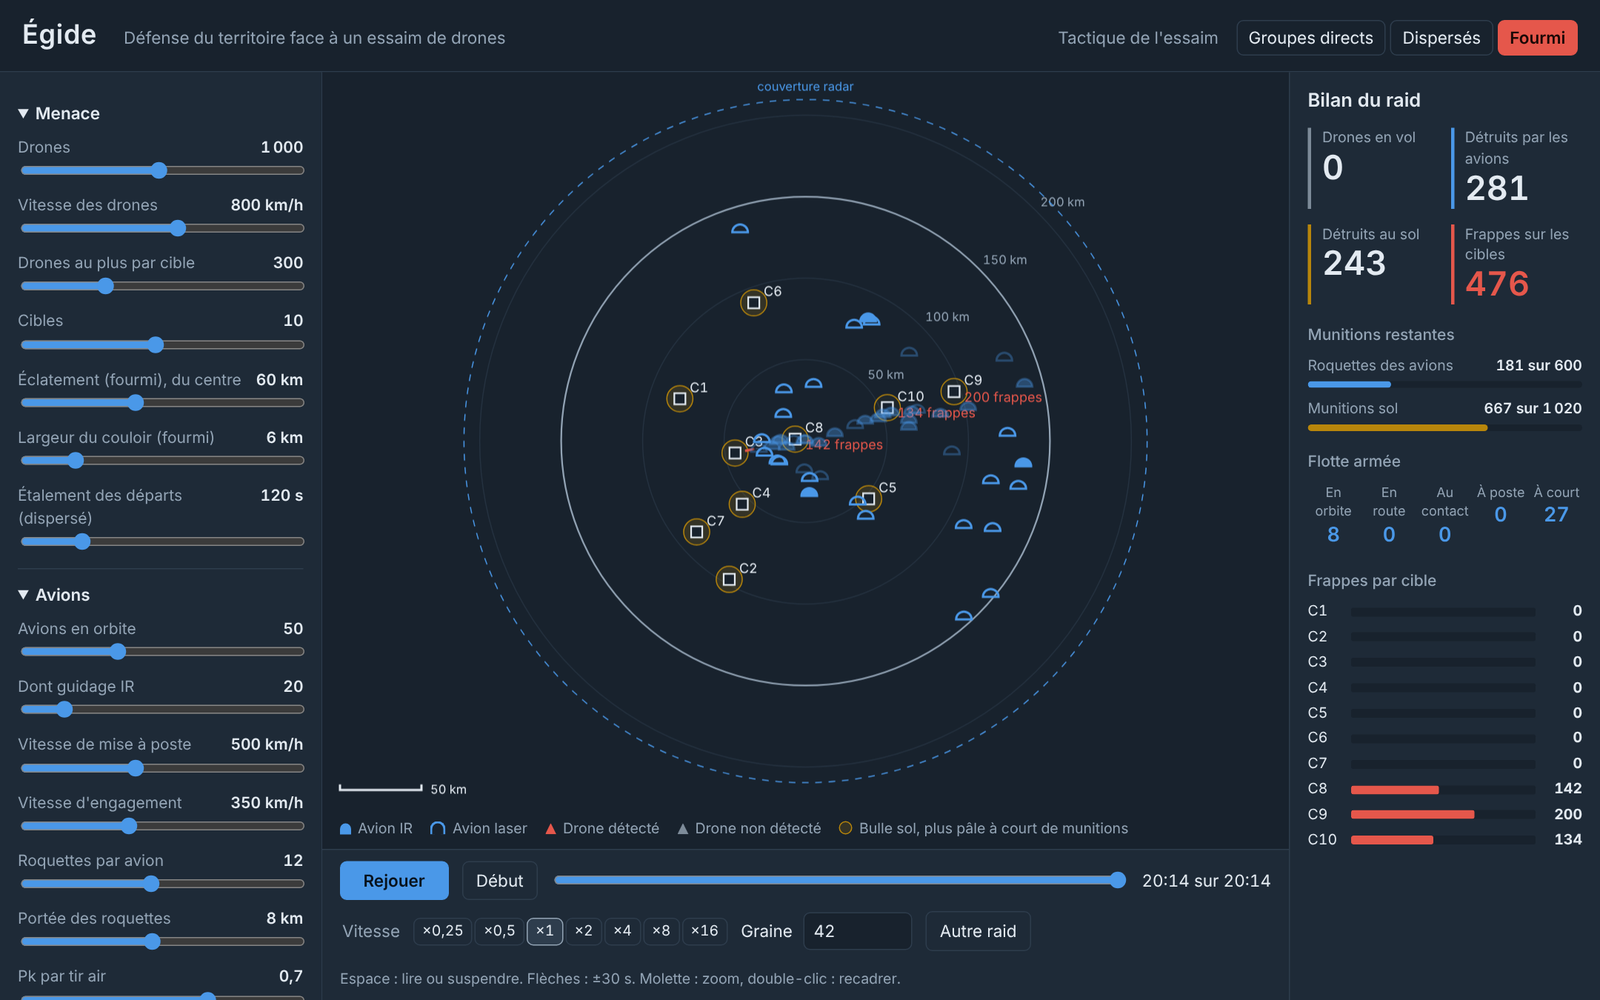
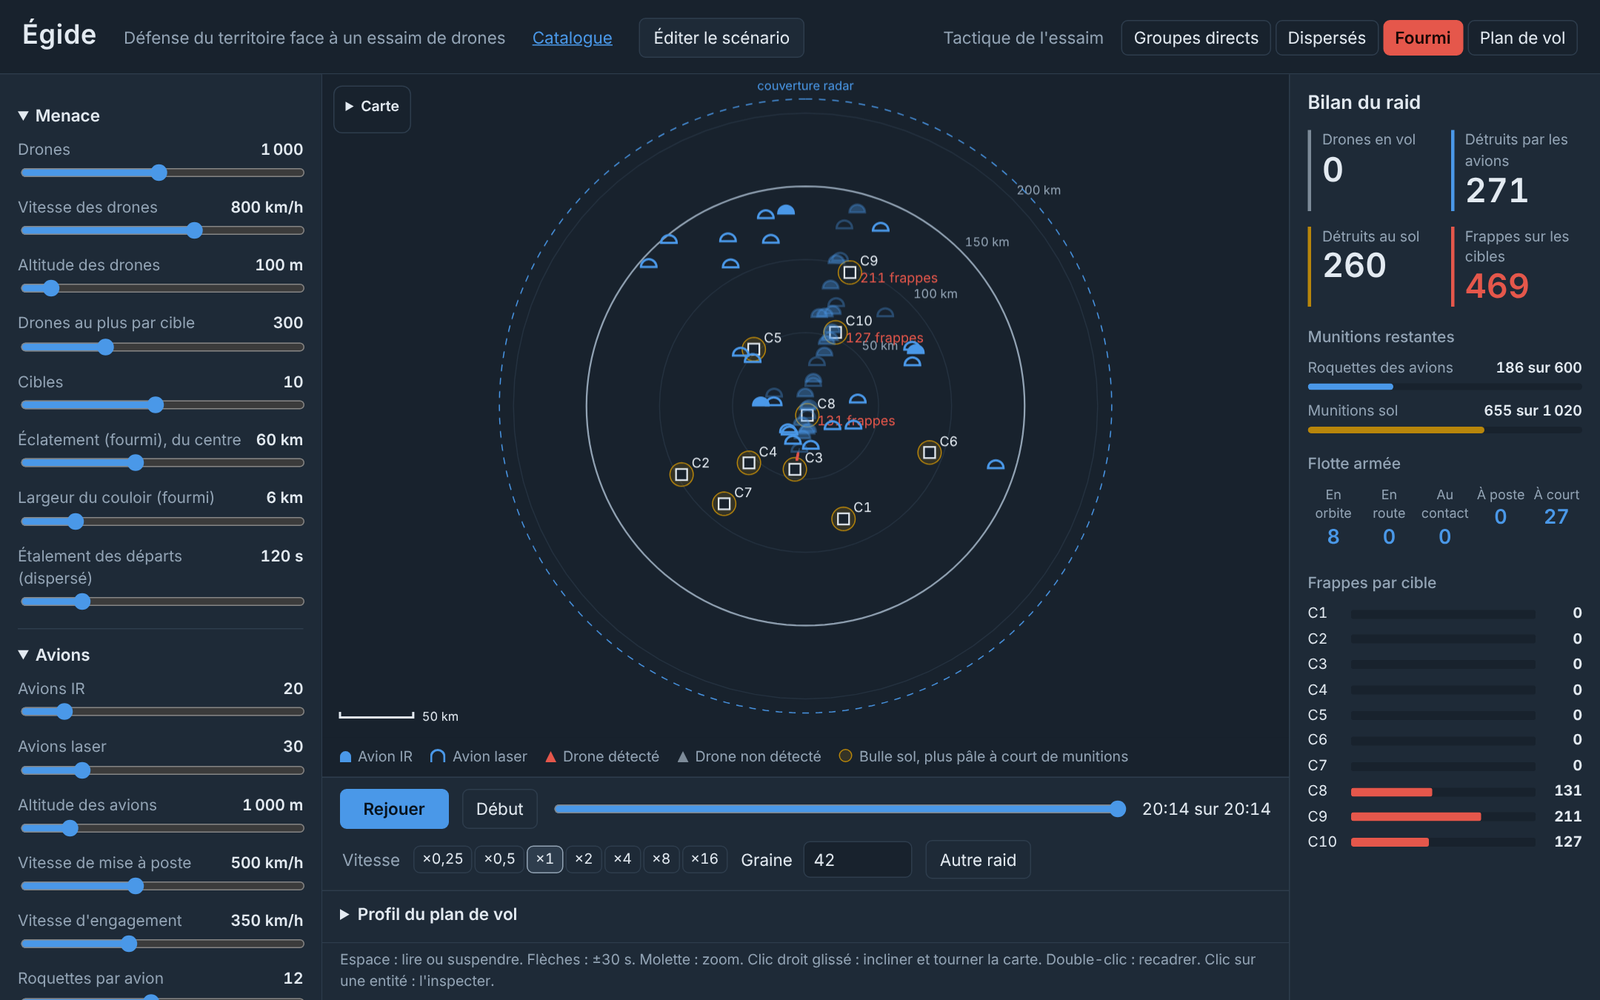
docs: README v0.2 avec nouvelles captures et GIF
Carte, éditeur, ordres, zones, inspecteur, catalogue, syntaxe par chemin en ligne de commande ; version 0.2.0.

Claude-Session: https://claude.ai/code/session_016FrRWDDbCR8M6utppfq7RR

diff --git a/README.md b/README.md
@@ -1,24 +1,37 @@
 # Égide
 
-Simulation de défense du territoire face à un essaim de drones rapides. Le défenseur dispose de trois couches :
-des radars qui couvrent le territoire, des postes sol-air sur les cibles, et des avions turbopropulseurs en
-orbite armés de roquettes guidées laser ou IR.
-
-Égide répond à deux questions, avec un fond mathématique explicite et des résultats reproductibles :
-
-- **À quelle vitesse les avions doivent-ils se mettre à poste**, selon leur nombre, pour intercepter un essaim
-  dont on ne connaît pas la route ?
-- **Combien de postes sol-air faudrait-il sans avions**, et combien la couche aérienne en épargne ?
+Simulation de défense du territoire face à un essaim de drones rapides, jouable comme un jeu de stratégie vu de
+dessus et assez rigoureuse pour en prouver les résultats. Le défenseur dispose de radars, de postes sol-air sur les
+cibles et d'avions en orbite armés de roquettes guidées ; l'attaquant choisit sa tactique, ou suit le plan de vol que
+vous dessinez.
 
 ![L'interface en lecture : attaque « fourmi », les avions convergent sur l'essaim, le bilan évolue en direct](docs/images/interface.gif)
 
-> Scénario notionnel : ordres de grandeur publics, aucune performance réelle de système identifié.
-> Chaque valeur chiffrée vient de [scenarios/reference.json](scenarios/reference.json), qui dit pour chaque clé à quoi elle sert.
+> Scénario notionnel : ordres de grandeur publics, aucune performance réelle de système identifié. Le dépôt public
+> ne contient que des modèles notionnels ; les modèles de systèmes réels se rangent dans un catalogue privé
+> (`prive/`, ignoré par git) que l'outil charge de la même façon.
+
+## Ce que fait Égide
+
+- **Répond à deux questions** : à quelle vitesse les avions doivent-ils se mettre à poste, selon leur nombre, pour
+  intercepter un essaim dont on ignore la route ? Combien de postes sol-air faudrait-il sans eux ?
+- **Simule sur la vraie Terre** : ellipsoïde WGS84, distances géodésiques, n'importe où sur le globe, sur fond de carte.
+- **Se joue à la souris** : placer les cibles et les avions, dessiner le plan de vol de l'essaim et des zones
+  protégées, donner des ordres en plein raid.
+- **S'explique** : chaque unité et chaque algorithme a sa fiche (équations, hypothèses, sources, code) ; un clic sur une
+  entité dit pourquoi elle fait ce qu'elle fait.
+- **Se prouve** : graines fixées, intervalles de confiance, résultats confrontés aux formules fermées, et plus de 150
+  tests qui s'appliquent d'eux-mêmes à tout nouveau modèle.
+
+## Lancer
+
+macOS : double-clic sur `lancer.command`. Windows : `lancer.bat`. La page s'ouvre sur http://127.0.0.1:8766.
+Rien à installer : JavaScript sans compilation, bibliothèques embarquées dans `vendor/`.
 
 ## En bref
 
-Avec le scénario de référence (1 000 drones à 800 km/h, 10 cibles, 200 postes sol, 50 avions à 500 km/h),
-moyenne sur 30 raids et intervalle de confiance à 95 % :
+Scénario de référence (1 000 drones à 800 km/h, 10 cibles, 200 postes sol, 50 avions à 500 km/h), 30 raids par
+tactique, moyenne et intervalle de confiance à 95 % :
 
 | Tactique de l'essaim | Frappes sans avions | Frappes avec 50 avions | Détruits par les avions |
 |---|---|---|---|
@@ -26,56 +39,41 @@ moyenne sur 30 raids et intervalle de confiance à 95 % :
 | Dispersés | 524 ± 8 | **187 ± 11** | 407 |
 | Fourmi (couloir compact puis éclatement) | 668 ± 19 | 401 ± 25 | 272 |
 
-- Les avions divisent les frappes par 1,6 à 2,8. La tactique fourmi est la plus efficace pour l'attaquant :
-  le couloir compact sature chaque avion sur un passage, et l'éclatement tardif oblige la flotte à se partager.
-- Face aux groupes compacts, les avions ne tirent que 60 % de leurs roquettes : la limite est la cadence par
-  passage, pas le stock. Au sol de même, environ la moitié des munitions reste inutilisée.
-- Avec 50 avions, garantir 5 avions sur une route quelconque demande ~350 km/h ; 8 avions, ~465 km/h ;
-  10 avions, ~525 km/h. Avec 20 avions, 5 garantis demandent déjà ~600 km/h.
+- Les avions divisent les frappes par 1,6 à 2,8. La tactique fourmi est la plus efficace pour l'attaquant : le couloir
+  compact sature chaque avion sur un passage, et l'éclatement tardif oblige la flotte à se partager.
+- Face aux groupes compacts, la limite est la cadence de tir par passage, pas le stock de munitions.
+- Avec 50 avions, garantir 5 avions sur une route quelconque demande ~350 km/h ; 8 avions, ~465 km/h ; 10, ~525 km/h.
 
-## Lancer
+Ces chiffres viennent du moteur plan de la v0.1 ; le moteur géodésique de la v0.2 les retrouve à moins de 0,5 σ
+(`tests/equivalence_v01.test.js`).
 
-macOS : double-clic sur `lancer.command`. Windows : `lancer.bat`. La page s'ouvre sur http://127.0.0.1:8766.
+## La situation
 
-Rien à installer pour l'interface : JavaScript sans compilation, servi par le serveur HTTP de Python.
+L'écran reprend les codes d'une situation aérienne : anneaux de distance, couverture radar, balayage du faisceau,
+plots radar avec leur historique. Symbologie inspirée d'APP-6 : dôme bleu plein pour un avion IR, creux pour un avion
+laser, demi-losange rouge pour un drone détecté (gris s'il ne l'est pas), carré pour une cible, cercle ocre pour une
+bulle sol qui pâlit à mesure qu'elle s'épuise.
 
-## L'interface
-
-### Le scope
-
-L'écran reprend les codes d'une situation aérienne : anneaux de distance tous les 50 km, limite de la zone,
-couverture radar basse altitude en pointillés, balayage du faisceau. Les drones apparaissent en plots
-rafraîchis toutes les 4 s, avec leur historique. La symbologie s'inspire d'APP-6 :
-
-| Symbole | Signification |
-|---|---|
-| Dôme bleu plein | Avion armé de roquettes IR |
-| Dôme bleu creux | Avion armé de roquettes laser |
-| Demi-losange rouge | Drone détecté (gris tant qu'il ne l'est pas) |
-| Carré blanc | Cible ; rouge au moment d'une frappe |
-| Cercle ocre | Bulle d'un groupe de postes sol, plus pâle à mesure qu'il épuise ses munitions |
-| Pointillés bleus | Route d'un avion vers son point de mise à poste |
-
-La molette zoome, le glisser déplace la vue, le double-clic recadre. Le survol décrit chaque entité :
-
-![Zoom sur l'essaim au contact de la défense, infobulle d'un avion en route vers son point de mise à poste](docs/images/zoom_engagement.png)
+Le panneau **Carte** pose la situation sur un fond réel : sombre, OpenStreetMap, plan ou photographies IGN, relief
+ombré ou en 3D, bâtiments 3D, vue à plat ou sur le globe ; clic droit glissé pour incliner et tourner. Chaque source
+est un fichier de `cartes/`, avec son attribution et ses conditions d'usage. « Scope seul » retire la carte.
 
 ### Trois tactiques adverses
 
 <table>
 <tr>
-<td width="50%"><img src="docs/images/eclatement.gif" alt="Tactique fourmi, vue zoomée : le couloir éclate près de C10 et les avions convergent"></td>
+<td width="50%"><img src="docs/images/eclatement.gif" alt="Tactique fourmi, vue zoomée : le couloir éclate et les avions convergent"></td>
 <td width="50%"><img src="docs/images/direct.gif" alt="Groupes directs : chaque groupe arrive d'un cap différent sur sa cible"></td>
 </tr>
 <tr>
-<td><b>Fourmi</b>, vue zoomée : tout l'essaim entre par un même couloir, éclate près de C10, puis se répartit sur ses cibles pendant que les avions convergent.</td>
+<td><b>Fourmi</b>, vue zoomée : tout l'essaim entre par un même couloir, éclate, puis se répartit sur ses cibles pendant que les avions convergent.</td>
 <td><b>Groupes directs</b> : chaque groupe arrive d'un cap tiré au hasard, en vague serrée, droit sur sa cible.</td>
 </tr>
 <tr>
 <td colspan="2" align="center"><img src="docs/images/disperse.gif" alt="Dispersés : un anneau de drones isolés converge sur toute la zone" width="60%"></td>
 </tr>
 <tr>
-<td colspan="2"><b>Dispersés</b> : chaque drone vient seul, de n'importe quel cap, avec des départs étalés. C'est la tactique la plus facile à défendre : les avions trouvent des cibles partout et vident presque tout leur emport.</td>
+<td colspan="2"><b>Dispersés</b> : chaque drone vient seul, de n'importe quel cap, départs étalés. La plus facile à défendre : les avions trouvent des cibles partout. La quatrième tactique, <b>plan de vol</b>, suit l'itinéraire que vous dessinez.</td>
 </tr>
 </table>
 
@@ -85,48 +83,88 @@ Même raid fourmi, même graine, en fin de raid :
 
 <table>
 <tr>
-<td width="50%"><img src="docs/images/fin_de_raid.png" alt="Fin de raid avec 50 avions : 476 frappes"></td>
+<td width="50%"><img src="docs/images/fin_de_raid.png" alt="Fin de raid avec 50 avions : 469 frappes"></td>
 <td width="50%"><img src="docs/images/sans_avions.png" alt="Fin de raid sans avions : 713 frappes"></td>
 </tr>
+<tr><td>Avec 50 avions : <b>469 frappes</b>.</td><td>Sans avions : <b>713 frappes</b>.</td></tr>
+</table>
+
+## Éditer à la souris
+
+« Éditer le scénario » met le raid en pause au début et ouvre la barre d'outils :
+
+- **Sélection** (S) : glisser pour déplacer cibles, avions, points de passage ou zones ; rectangle ou Maj+clic pour
+  sélectionner ; clic droit pour envoyer la sélection en gardant sa formation ; Ctrl+1 à 9 forme un groupe, 1 à 9 le
+  rappelle ; Suppr efface ; Ctrl+Z annule.
+- **Cible** (C) : un clic, une cible.
+- **Plan de vol** (P) : chaque clic ajoute un point de passage ; l'essaim suit le tracé en colonne, puis chaque drone
+  rejoint sa cible. Le panneau « Profil du plan de vol » trace son altitude au-dessus du relief réel.
+- **Zone** (Z) : un clic par sommet, double-clic ou Entrée pour fermer ; une zone protégée compte les incursions.
+
+![Éditeur : plan de vol en trois points sélectionnés, zone protégée, barre d'outils](docs/images/editeur.png)
+
+**Ordres en plein raid** : en pause à n'importe quel instant, « Éditer le scénario » passe en mode ordres ;
+sélectionnez des avions, clic droit pour les envoyer. L'ordre est enregistré avec son instant dans le scénario, et le
+raid se rejoue à l'identique.
+
+![Ordre donné à 5:30 : les avions sélectionnés rallient le point, la zone protégée compte ses incursions](docs/images/ordres.png)
+
+Chaque geste devient une modification du scénario, comme un curseur : l'annulation, l'export JSON, les réglages
+enregistrés et la reproductibilité par la graine valent pour tout ce que vous placez à la main.
+
+## Comprendre : fiches et inspecteur
+
+Un clic sur une entité ouvre l'**inspecteur**, mis à jour en direct : pour un avion, pourquoi la conduite l'a envoyé
+là (piste retenue, score, délai, alternatives écartées) ; pour un drone, chaque tir subi, sa probabilité de survie
+Π(1 − Pk) et la cause de sa perte ; pour une cible, sa défense et sa cadence de tir.
+
+![Inspecteur : l'avion 18 a été envoyé sur une piste de 372 drones, au score 372, contre 134 et 117 pour les alternatives](docs/images/inspecteur.png)
+
+Le lien **Catalogue** ouvre l'explorateur : une fiche par unité (fidélité, lignée, sources, paramètres avec l'ancêtre
+qui les fixe, algorithmes) et par algorithme (équations, hypothèses, domaine de validité, références, code, utilisateurs).
+
+<table>
 <tr>
-<td>Avec 50 avions : <b>476 frappes</b>.</td>
-<td>Sans avions : <b>713 frappes</b>.</td>
+<td width="50%"><img src="docs/images/catalogue_unite.png" alt="Fiche d'unité : turbopropulseur IR, lignée et paramètres hérités"></td>
+<td width="50%"><img src="docs/images/catalogue_algo.png" alt="Fiche d'algorithme : essaim fourmi, équations et hypothèses"></td>
 </tr>
 </table>
 
-### Réglages, lecture et rejeu
+## Réglages, lecture, balayage
 
-- Un curseur par clé du scénario, groupés par couche (menace, avions, sol, détection et conduite). L'info-survol
-  de chaque curseur reprend la phrase d'aide du fichier de scénario. Chaque geste relance le raid.
-- Lecture de ×0,25 à ×16 (×1 = 20 s simulées par seconde). Espace pour lire ou suspendre, flèches pour ±30 s.
-- La frise permet d'aller à n'importe quel instant, en avant comme en arrière : le raid est rejoué depuis la
-  graine, donc à l'identique. « Autre raid » change la graine.
-- Les réglages s'enregistrent dans le navigateur ; « Exporter le scénario » télécharge le JSON complet,
-  réutilisable par les campagnes en ligne de commande.
+- Un curseur par réglage, groupés par couche ; l'info-survol reprend la phrase d'aide du scénario ou de l'unité.
+- Lecture de ×0,25 à ×16, frise pour aller à n'importe quel instant (le raid est rejoué depuis la graine), « Autre raid »
+  pour changer de graine. Espace : lire ou suspendre ; flèches : ±30 s.
+- Réglages enregistrés dans le navigateur ; « Exporter le scénario » télécharge le JSON complet.
+- **Balayage** : faire varier un réglage, rejouer le raid sur plusieurs graines par valeur, lire chaque grandeur avec
+  son intervalle de confiance — calculé en arrière-plan.
 
-### Balayage
+![Balayage du nombre d'avions, avec intervalles de confiance](docs/images/balayage.png)
 
-Le panneau de balayage fait varier un réglage, rejoue le raid sur plusieurs graines pour chaque valeur, et
-trace chaque grandeur avec son intervalle de confiance. Le calcul tourne en arrière-plan : l'animation reste fluide.
+<img src="docs/images/mobile.png" alt="L'interface sur un écran de téléphone" width="280">
 
-![Balayage du nombre d'avions : frappes, destructions par les avions et au sol, avec intervalles de confiance](docs/images/balayage.png)
+## Étendre : unités, algorithmes, cartes
 
-![Les mêmes résultats en tableau](docs/images/balayage_tableau.png)
+```
+unites/<famille>/<classe>/<unite>.json    une unité par fichier, héritage par herite_de, chaque clé documentée
+algos/global/<rôle>/<algo>.js             un algorithme par module : fiche « meta » + fonctions du rôle, sans import
+cartes/fonds|relief|batiments/<source>.json   une source de carte par fichier, attribution obligatoire
+prive/unites/…  prive/algos/…             votre catalogue privé (ignoré par git), identifiants préfixés « prive/ »
+scenarios/                                scénarios JSON, chaque clé documentée
+```
 
-### Sur téléphone
+Après tout ajout : `node outils/indexer.js`. La suite de conformité vérifie d'elle-même tout fichier déposé, public ou
+privé : fiche complète, rôle tenu, aucune dépendance cachée, paramètres présents, invariants du rôle. Les rôles et
+leurs fonctions sont décrits dans [docs/MODELE.md § 10](docs/MODELE.md).
 
-<img src="docs/images/mobile.png" alt="L'interface sur un écran de téléphone" width="300">
-
-## Les trois étapes
-
-### 1. Abaques analytiques (`analyse/`, Python)
-
-Les formules fermées de [docs/MODELE.md](docs/MODELE.md) : horizon radar, délai de mise à poste, nombre
-d'avions concentrables, vitesse minimale, postes sol nécessaires, pré-attrition par la couche aérienne.
+## En ligne de commande
 
 ```sh
-uv run --with matplotlib python -m analyse.abaques                 # figures et recapitulatif.md dans resultats/abaques/
-uv run --with matplotlib python -m analyse.abaques --concentration 400
+node src/campagne.js                                            # scénario de référence, 50 raids
+node src/campagne.js --tirages 200 --rouge.tactique direct      # toute valeur se règle par son chemin
+node src/campagne.js --rouge.surcharges.vitesse_kmh 600         # y compris une valeur d'unité
+node src/campagne.js --balayer bleu.avions.1.nombre=0,10,30,60  # une campagne par valeur
+uv run --with matplotlib python -m analyse.abaques              # abaques analytiques et récapitulatif
 ```
 
 <table>
@@ -135,61 +173,32 @@ uv run --with matplotlib python -m analyse.abaques --concentration 400
 <td width="50%"><img src="docs/images/postes_sol.png" alt="Postes sol nécessaires selon la concentration adverse"></td>
 </tr>
 <tr>
-<td>Vitesse minimale de mise à poste pour garantir k avions sur une route quelconque. La bande grise est la plage des turbopropulseurs.</td>
-<td>Postes sol nécessaires selon la concentration adverse par cible, sans avions puis avec 20, 50 et 100 avions.</td>
+<td>Vitesse minimale de mise à poste pour garantir k avions sur une route quelconque.</td>
+<td>Postes sol nécessaires selon la concentration adverse, sans avions puis avec 20, 50 et 100 avions.</td>
 </tr>
 </table>
 
-![Postes sol nécessaires face à 300 drones par cible, selon le nombre et la vitesse des avions](docs/images/carte_postes_sol.png)
-
-### 2. Simulation multi-agents (`src/moteur/`, JavaScript pur)
-
-Le moteur ne touche ni au DOM ni au réseau : il tourne dans le navigateur comme sous Node. Toute la simulation
-tire son hasard d'un générateur à graine ; un raid de 1 000 drones se calcule en moins d'une seconde.
-
-```sh
-node src/campagne.js                                          # scénario de référence, 50 raids
-node src/campagne.js --tirages 200 --drones_tactique direct   # toute clé du scénario se règle ainsi
-node src/campagne.js --balayer avions_nombre=0,20,50,100      # une campagne par valeur
-```
-
-Chaque grandeur est rendue en moyenne ± intervalle de confiance à 95 %, et enregistrée en JSON dans
-`resultats/campagnes/`. Les hypothèses de la simulation (détection, extrapolation des pistes, planification,
-tirs) sont au § 8 du modèle.
-
-### 3. Interface graphique (`index.html`, `src/vue/`)
-
-Décrite plus haut. La vue ne contient aucun calcul de défense : elle anime le moteur et lit son journal
-d'évènements.
-
 ## Rigueur
 
-- Unités SI dans tout le calcul ; conversions seulement à la lecture du scénario et à l'affichage.
-- Chaque formule codée cite son paragraphe de [docs/MODELE.md](docs/MODELE.md).
-- Les formules fermées existent en Python et en JavaScript ; [tests/references.json](tests/references.json)
-  vérifie que les deux rendent les mêmes valeurs.
-- La simulation est confrontée aux formules : la défense sol seule retrouve le § 5 du modèle (tirs par poste,
-  destructions = tirs × Pk à l'intervalle de confiance près).
-- Limites connues : drones sans contre-mesures ni évitement, radar parfait dans sa couverture, pas de
-  rechargement des avions pendant le raid (MODELE § 7).
+- Unités SI et géodésie WGS84 dans tout le calcul ; Vincenty vérifié sur les exemples de GeographicLib au millimètre.
+- Hasard à graine : une graine rejoue un raid à l'identique, ordres compris.
+- Chaque formule codée cite son paragraphe de [docs/MODELE.md](docs/MODELE.md), et un test vérifie que chaque renvoi existe.
+- Formules fermées en Python et en JavaScript, vérifiées l'une contre l'autre ; simulation confrontée aux formules.
+- Chaque refonte prouvée : le moteur géodésique retrouve les statistiques de la v0.1, le passage aux algorithmes en
+  fichiers redonne les bilans exacts.
+- Limites connues : drones sans contre-mesures ni évitement, radar parfait dans sa couverture, relief affiché mais pas
+  encore pris en compte par le moteur (MODELE § 7).
 
-## Organisation du dépôt
+## Documentation
 
-```
-analyse/            étape 1 : formules fermées, dimensionnement, abaques (Python)
-src/moteur/         étape 2 : simulation pure (JS) — hasard, scénario, menace, défense air et sol, monde
-src/vue/            étape 3 : scope, réglages, lecture, tableau de bord, balayage
-src/campagne.js     campagnes Monte-Carlo en ligne de commande
-scenarios/          scénarios JSON, chaque clé documentée dans son bloc _aide
-docs/MODELE.md      toutes les équations et hypothèses
-docs/PLAN.md        plan des trois étapes
-tests/              tests JS (node --test) et Python (pytest)
-```
+- [docs/MODELE.md](docs/MODELE.md) : toutes les équations et hypothèses.
+- [docs/PLAN_V2.md](docs/PLAN_V2.md) : feuille de route, jalons, idées et suggestions.
 
 ## Tests
 
 ```sh
-npm test                    # moteur, vue, références croisées
-pytest -q tests             # formules, scénario, dimensionnement, abaques
+npm test                 # rapide
+npm run test:complet     # ajoute l'équivalence avec la v0.1 (~2 min)
+pytest -q tests
 ruff check analyse tests
 ```
